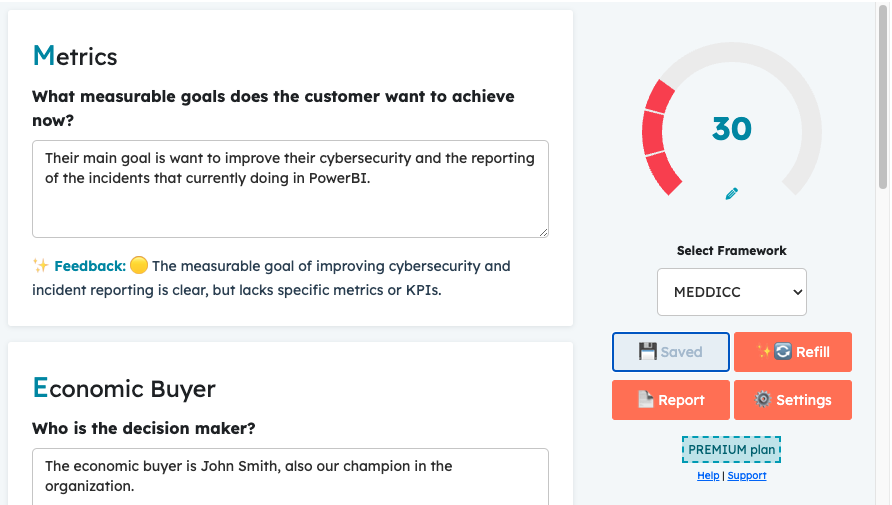
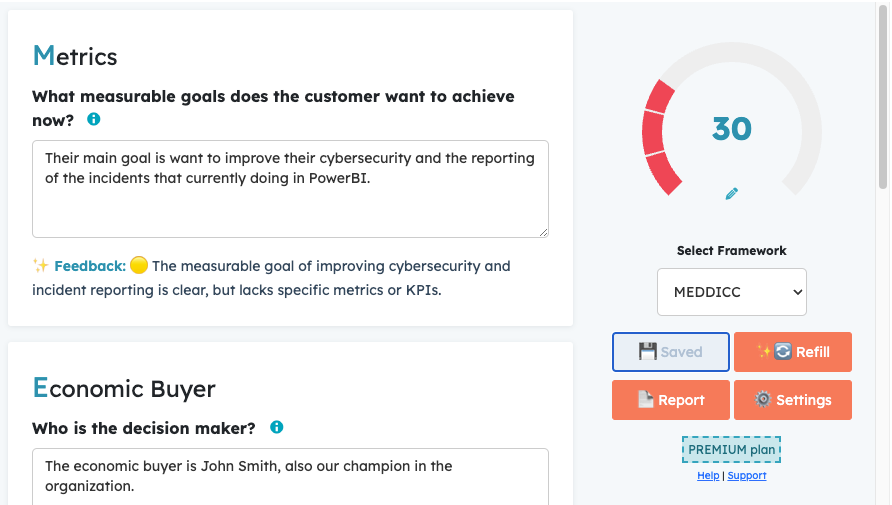
Adding daily AI post

diff --git a/_posts/2023-01-01-setup-guide.md b/_posts/2023-01-01-setup-guide.md
@@ -112,6 +112,12 @@ Note: Comments to engagements are not gathered since they are not available thro
 
 <p class="text-center"><img src="../../assets/images/guide41.png" alt="Manual Scoring" class="w-50 my-3 mx-auto border border-3 border-primary rounded rounded-3"></p>
 
+<ul>
+  <li>On every question, clicking on the info icon, a little guidance text is showed to help users to answer the question. This text can also be customized on Settings.</li>
+</ul>
+
+<p class="text-center"><img src="../../assets/images/guide421.png" alt="Guidance" class="my-3 mx-auto border border-3 border-primary rounded rounded-3"></p>
+
 <hr>
 
 <h4 class="pt-6-m mb-3 text-primary" id="change-framework">7. Change the Framework</h4>
@@ -268,7 +274,7 @@ Note: Comments to engagements are not gathered since they are not available thro
 <h5 class="pt-6-m mb-3 text-primary mt-2" id="editing-questions">8.2 Frameworks: Editing the framework questions and default framework (only Admin)</h5>
 
 <ul>
-  <li>Only Admins can access this feature. Clicking on the Framework tab, allows the user to edit the questions for that framework. The change will apply to all account members (not just the individual user). The modification will not affect the answers or scores previously submitted but will update the questions for all deals where that framework has been used.</li>
+  <li>Only Admins can access this feature. Clicking on the Framework tab, allows the user to edit the questions and the guidance for that framework. The change will apply to all account members (not just the individual user). The modification will not affect the answers or scores previously submitted but will update the questions and guidance for all deals where that framework has been used.</li>
   <li>Turning on the ‘Default Framework’ switch will set the selected framework as the default for the entire account. Every new deal will use this framework by default. The change will not affect the answers or frameworks previously submitted in existing deals. The default framework is initially set to MEDDICC.</li>
 </ul>
 
